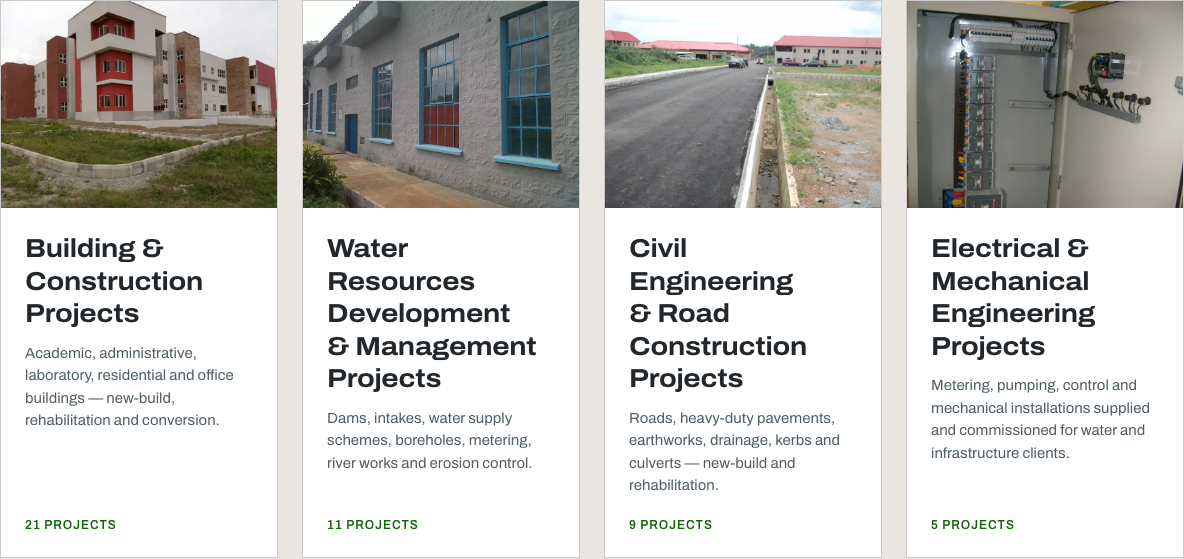
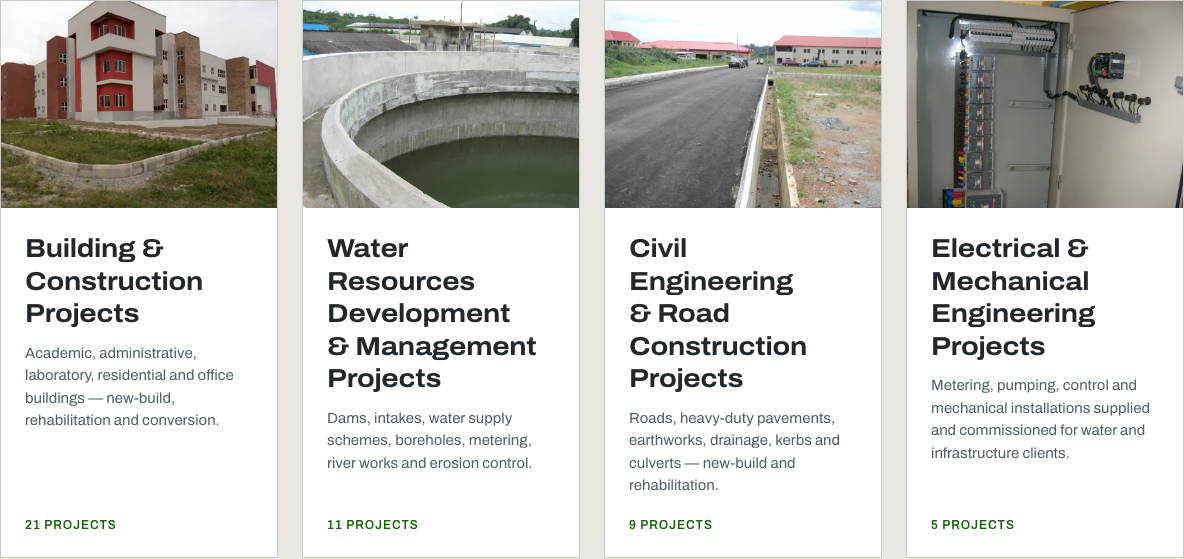
Photos: the Ogere ground tank, now the Water spotlight
The client confirmed the ground tank holding water (page 9 of the water
document, labelled only "Construction of ground tank") is at the Ogere
water supply scheme.

- On the Ogere project, its sixth photograph, captioned "Construction of
  ground tank by Sato" (the label, cleaned).
- The Water Resources spotlight, replacing the high lift pump house, which
  stays on the project. focalPoint 50% 75% keeps the rim and the water in
  the 16:6 band.
- 1600px original, no crop, no one in frame. The other ground-tank
  photograph stays off: people on site without helmets.

check:images: 200 files clean. build:prod passes. Audit: no duplicate,
no wrong project.

Changed region(s): [[0.25, 0.0, 0.5, 0.3953]]

diff --git a/docs/content-audit.md b/docs/content-audit.md
@@ -16,7 +16,7 @@ A photograph is matched by provenance and by perceptual hash, so the old site's 
 | New-site extra | 19 | 13 |
 | Projects | 32 | 14 |
 | Duplicate (allowed) | 6 | 11 |
-| New-site extra (kept, High confidence) | 12 | 18 |
+| New-site extra (kept, High confidence) | 12 | 19 |
 
 **Counted as allowed:** a project's photograph also used as one category tile or one page header. **Missing photo** includes old-site photographs that stay off the site under a standing rule (no helmets, a legible former company name) or wait on the client; the Fix column says which.
 
@@ -27,7 +27,6 @@ A photograph is matched by provenance and by perceptual hash, so the old site's 
 | [2012/07/9.jpg](https://www.satoengineering.com/wp-content/uploads/2012/07/9.jpg)<br>“WORK IN PROGRESS AT MR. LEKAN OMOLOLU’S RESIDENTIAL DEVELOPMENT, ABEOKUTA” | /building-and-construction/ #12 | category-photos:building-construction | **Missing photo** — Not where the old site puts it | In the **civil-engineering-construction/buildings** photographs on the category page |
 | [2012/07/3.gif](https://www.satoengineering.com/wp-content/uploads/2012/07/3.gif)<br>“SATO ENGINEERING NIGERIA LIMITED OFFICE IN ABEOKUTA” | /building-and-construction/ #17 | category-photos:building-construction | **Missing photo** — Not where the old site puts it | In the **civil-engineering-construction/buildings** photographs on the category page |
 | [2012/07/1.gif](https://www.satoengineering.com/wp-content/uploads/2012/07/1.gif)<br>“SATO ENGINEERING NIGERIA OFFICE IN ABEOKUTA” | /building-and-construction/ #19 | category-photos:building-construction | **Missing photo** — Not where the old site puts it | In the **civil-engineering-construction/buildings** photographs on the category page |
-| [2012/07/8.jpg](https://www.satoengineering.com/wp-content/uploads/2012/07/8.jpg)<br>“CONSTRUCTION OF HIGH LIFT PUMP BUILDING AT OGERE WATER SUPPLY SCHEME BY SATO ENGINEERING NIGERIA LIMITED” | /building-and-construction/ #13 | project:ogere-water-supply-scheme-rehabilitation<br>tile:water-resources-development-management | **Duplicate (allowed)** — A project's photograph also used as one tile or header (allowed) | One place: On **ogere-water-supply-scheme-rehabilitation** (full-size original W110), caption beneath |
 | [2019/10/IMG-20191011-WA0023-1.jpg](https://www.satoengineering.com/wp-content/uploads/2019/10/IMG-20191011-WA0023-1.jpg)<br>“Work in progress (completion stage) at College of Plant Science and Crop Production (COLPLANT) Building Phase II for Federal University of Agriculture, Abeokuta.” | /building-and-construction/ #3 | project:funaab-colplant-building-phase-ii<br>page-band:services.groupInfrastructure | **Duplicate (allowed)** — A project's photograph also used as one tile or header (allowed) | One place: On **funaab-colplant-building-phase-ii**, caption beneath |
 | [2012/07/4.jpg](https://www.satoengineering.com/wp-content/uploads/2012/07/4.jpg)<br>“WORK IN PROGRESS AT MCPHERSON UNIVERSITY ADMINISTRATIVE BLOCK AJEBO, OGUN STATE” | /building-and-construction/ #16 | project:mcpherson-administrative-block-and-laboratory<br>service-header:building-construction | **Duplicate (allowed)** — A project's photograph also used as one tile or header (allowed) | One place: On **mcpherson-administrative-block-and-laboratory** (full-size original W088), caption beneath |
 | [2019/10/Doc2-1_page-0002.jpg](https://www.satoengineering.com/wp-content/uploads/2019/10/Doc2-1_page-0002.jpg)<br>“Horizon Suites, Ibadan, Oyo State” | /building-and-construction/ #8 | project:horizon-suites-hotel-complex<br>page-header:infrastructure | **Duplicate (allowed)** — A project's photograph also used as one tile or header (allowed) | One place: On **horizon-suites-hotel-complex** (full-size original W050), caption beneath |
@@ -87,10 +86,12 @@ A photograph is matched by provenance and by perceptual hash, so the old site's 
 
 | Old site: image + caption | Old site: page / project | New site: where it appears now | Problem | Fix |
 |---|---|---|---|---|
+| W089 | — | project:ogere-water-supply-scheme-rehabilitation<br>tile:water-resources-development-management | **Duplicate (allowed)** — A project's photograph also used as one tile or header (allowed) | One place only |
 | W126 | — | project:fiditi-earth-dam<br>page-header:projects | **Duplicate (allowed)** — A project's photograph also used as one tile or header (allowed) | One place only |
 | W021 | — | project:asphaltic-concrete-road-and-drainage-ajebo<br>page-header:services | **Duplicate (allowed)** — A project's photograph also used as one tile or header (allowed) | One place only |
 | E-068d09d3 | — | project:funaab-academic-building-complex-block-b<br>tile:building-construction | **Duplicate (allowed)** — A project's photograph also used as one tile or header (allowed) | One place only |
 | oil & gas artwork: oil-gas/oil-gas-hero-platforms.jpg | — | tile:oil-gas<br>page-band:services.groupOilGas | **Duplicate (allowed)** — Oil & Gas artwork, unchanged by rule (allowed) | One place only |
+| W089<br>“Construction of ground tank by Sato” | Client's Word document of 8 November 2026 (page 9); site confirmed by the client 9 November | project:ogere-water-supply-scheme-rehabilitation<br>tile:water-resources-development-management | **New-site extra (kept, High confidence)** — Not on the old site | Kept (High confidence, on a project the old site has) — for the client to confirm |
 | W126<br>“Removal of top soil within 3rd segment cut-off trench area (Fiditi Dam)” | Client batch, October 2026 (prompt 16) | project:fiditi-earth-dam<br>page-header:projects | **New-site extra (kept, High confidence)** — Not on the old site | Kept (High confidence, on a project the old site has) — for the client to confirm |
 | W131<br>“Excavation in progress for 3rd segment of COT (Fiditi Dam)” | Client batch, October 2026 (prompt 16) | project:fiditi-earth-dam | **New-site extra (kept, High confidence)** — Not on the old site | Kept (High confidence, on a project the old site has) — for the client to confirm |
 | W137<br>“Spreading of clay for 2nd segment cut-off trench (Fiditi Dam)” | Client batch, October 2026 (prompt 16) | project:fiditi-earth-dam | **New-site extra (kept, High confidence)** — Not on the old site | Kept (High confidence, on a project the old site has) — for the client to confirm |

diff --git a/docs/decisions/water-photo-batch.md b/docs/decisions/water-photo-batch.md
@@ -74,7 +74,7 @@ could be new is a label, and one was.
 | N006 | 8 | Construction work in progress at Ogere water scheme | W086 | Skipped: already on the site (`ogere-1`, Ogere project) |
 | N005 | 8 | Construction work in progress at Ogere water scheme | W085 | Helmet rule |
 | N007 | 9 | Construction of ground tank | W087 | **Not placed**: names no site. Also people without helmets |
-| N008 | 9 | Construction of ground tank | W089 | **Not placed**: names no site. Safe, and the strongest water photograph in the document |
+| N008 | 9 | Construction of ground tank | W089 | **Placed** on the Ogere project, and the Water spotlight, once the client confirmed the site (9 November) |
 | N010 | 10 | Construction of clear water tank in progress at the Ogere water supply scheme | W091 | Helmet rule |
 | N009 | 10 | Construction of clear water tank in progress at the Ogere water supply scheme | W090 | Helmet rule. No crop excludes everyone: someone is crouched in the rebar at the centre |
 | N013 | 11 | Ongoing works at Ogere water supply scheme | W093 | Helmet rule |
@@ -127,6 +127,17 @@ caption text, which is a reason to crop or leave out, not a date.
 
 The four spotlights are four different photographs, each from its own
 category. The content audit shows no duplicate and no wrong project.
+
+### Settled after the report (9 November)
+
+**The ground tank is at Ogere** (client). N008 is now on the Ogere project,
+its sixth photograph, captioned with its label cleaned: "Construction of
+ground tank by Sato". It is also the **Water Resources spotlight**, replacing
+the completed high lift pump house, which stays on the project. Its
+`focalPoint` is `50% 75%`, so the 16:6 band keeps the tank's rim and the
+water rather than the roofs behind. It is published at 1600px, its original
+size, with no crop. No one is in frame, and it shows no text and no date. N007, the other
+ground-tank photograph, stays off: it shows people on site without helmets.
 
 ### Pipeline repairs found on the way
 

diff --git a/CLAUDE.md b/CLAUDE.md
@@ -513,9 +513,9 @@ disagree with this file:
 10. `water-photo-batch.md` — the 17-page water document of 8 November. Every
     photograph in it was already in the October one. Labels are read from
     the page geometry, because text order puts three against the wrong
-    photograph. One placed (the Life University roller). Block B is the
-    Building spotlight. The Water spotlight is unchanged because no labelled,
-    safe water photograph was left. **Current for photographs.**
+    photograph. Two placed: the Life University roller, and the Ogere ground
+    tank once the client named its site. Block B is the Building spotlight
+    and the ground tank is the Water spotlight. **Current for photographs.**
 
 ## Review deployments
 

diff --git a/docs/caption-changes.md b/docs/caption-changes.md
@@ -64,6 +64,7 @@ Kept new photographs (High confidence) take their caption from the client's own 
 | W126 | Removal of top soil within 3rd segment cut-off trench area (Fiditi Dam) | Client's Word document |
 | W131 | Excavation in progress for 3rd segment of COT (Fiditi Dam) | Client's Word document |
 | W137 | Spreading of clay for 2nd segment cut-off trench (Fiditi Dam) | Client's Word document |
+| W089 | Construction of ground tank by Sato |  |
 | W020 | Asphaltic concrete road under construction at Life University Ajebo, Ogun State |  |
 | E-068d09d3 | Academic Building Complex Block B, Federal University of Agriculture, Abeokuta |  |
 | E-cce587ff | Academic Building Complex Block B, Federal University of Agriculture, Abeokuta |  |

diff --git a/docs/open-items-extra.md b/docs/open-items-extra.md
@@ -18,7 +18,9 @@ settled one thing — the Life University road photograph with the roller is
 now on its project — and left these. See
 `docs/decisions/water-photo-batch.md`.
 
-- **The Water Resources spotlight did not change.** Every photograph labelled
+- ~~**The Water Resources spotlight did not change.**~~ **Settled 9 November:
+  the ground tank is at Ogere.** It is now on the Ogere project and is the
+  Water spotlight. Original note: every photograph labelled
   with a water project (all of them Ogere) shows people on site without
   helmets, except the one already on the Ogere project (a rebar mat, weaker
   than the current picture). The strongest water photograph in the document is

diff --git a/docs/open-items.md b/docs/open-items.md
@@ -20,7 +20,9 @@ settled one thing — the Life University road photograph with the roller is
 now on its project — and left these. See
 `docs/decisions/water-photo-batch.md`.
 
-- **The Water Resources spotlight did not change.** Every photograph labelled
+- ~~**The Water Resources spotlight did not change.**~~ **Settled 9 November:
+  the ground tank is at Ogere.** It is now on the Ogere project and is the
+  Water spotlight. Original note: every photograph labelled
   with a water project (all of them Ogere) shows people on site without
   helmets, except the one already on the Ogere project (a rebar mat, weaker
   than the current picture). The strongest water photograph in the document is
